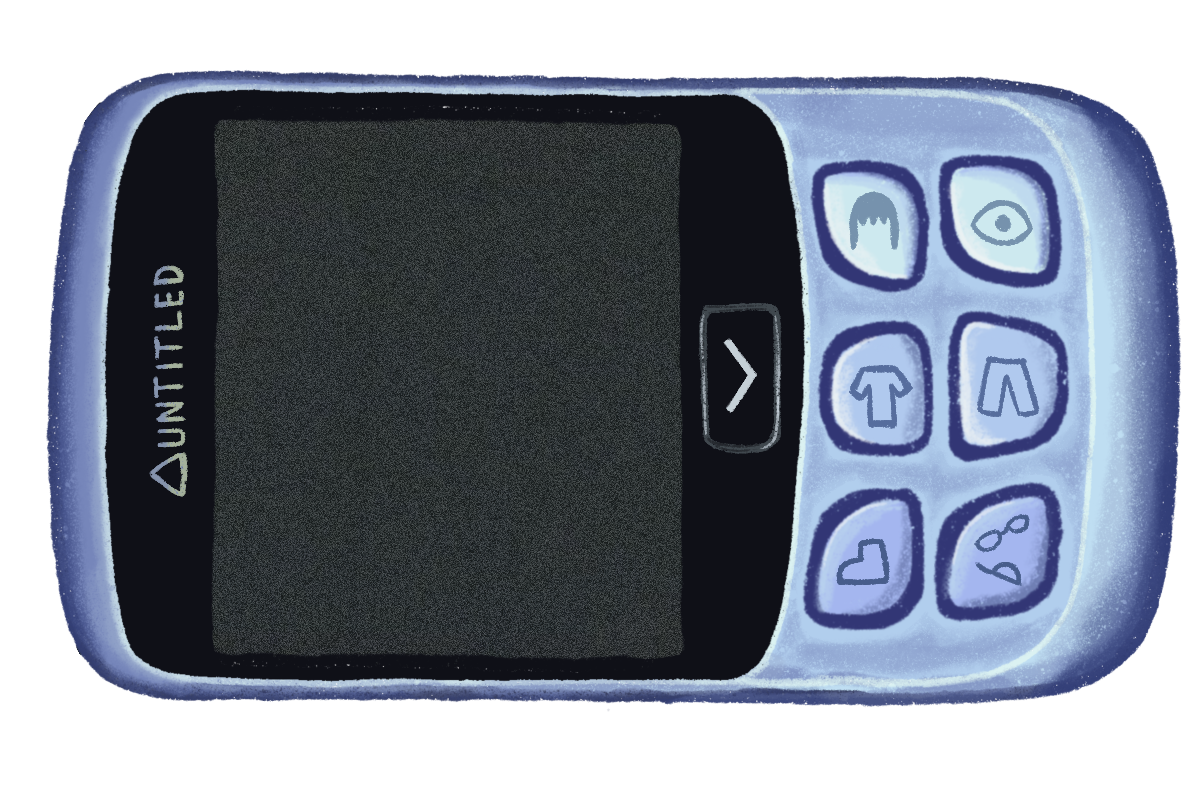
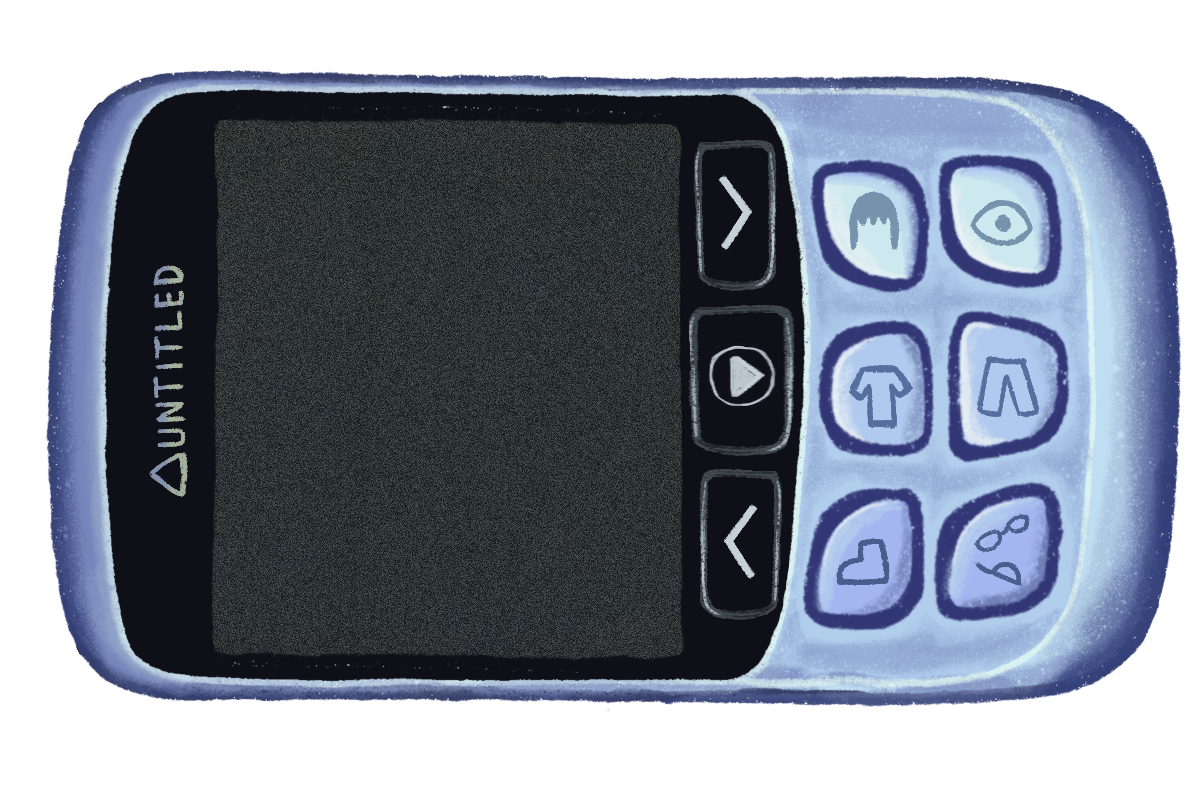
added more buttons

Changed region(s): [[0.555, 0.1519, 0.6783, 0.7899]]

diff --git a/src/components/Creation.tsx b/src/components/Creation.tsx
@@ -166,12 +166,17 @@ interface Props_Phone {
 }
 
 const Phone: React.FC<Props_Phone> = ({ onItemSelect, character }) => {
+  const user = useContext(User);
   const [scalingFactor, setScalingFactor] = useState<number>(1);
   const [topOffset, setTopOffset] = useState<number>(1);
   const [activeTab, setActiveTab] = useState<string>("hair");
   const [currentPage, setCurrentPage] = useState<number>(0);
 
   const itemsPerPage = 4;
+
+  const startGame = () => {
+    user.setCharacter(character);
+  };
 
   useEffect(() => {
     const handleResize = () => {
@@ -194,6 +199,9 @@ const Phone: React.FC<Props_Phone> = ({ onItemSelect, character }) => {
     switch (area.name) {
       case "screen":
         break;
+      case "play":
+        startGame();
+        break;
       case "back":
         const totalPages = Math.ceil(wardrobe_tabs.length / itemsPerPage);
         const prevPage = (currentPage - 1 + totalPages) % totalPages;
@@ -205,7 +213,6 @@ const Phone: React.FC<Props_Phone> = ({ onItemSelect, character }) => {
         if (prevDisplayedItems.length > 0) {
           setCurrentPage(prevPage);
         }
-        break;
         break;
       case "next":
         const nextPage =
@@ -357,7 +364,6 @@ const Character: React.FC<Props_Character> = ({ character }) => {
 };
 
 const Creation = () => {
-  const user = useContext(User);
   const [character, setCharacter] = useState<Character>({
     name: "Default",
     hair: wardrobe_tabs[0].items[0],
@@ -414,15 +420,8 @@ const Creation = () => {
     });
   };
 
-  const startGame = () => {
-    user.setCharacter(character);
-  };
-
   return (
     <div className="section-content">
-      <div className="button-container">
-        <button onClick={startGame}>start</button>
-      </div>
       <Character character={character} />
       <Wardrobe onItemSelect={handleItemSelect} character={character} />
     </div>

diff --git a/src/dummydata.ts b/src/dummydata.ts
@@ -186,36 +186,36 @@ export const MAP = {
       ],
     },
     {
-      name: "back",
-      shape: "poly",
-      fillColor: "d3a345",
+      name: "next",
+      shape: "rect",
+      fillColor: "#d3a345",
       strokeColor: "black",
-      coords: [187, 450, 144, 475, 184, 503],
+      coords: [774, 290, 696, 142],
       polygon: [
-        [187, 450],
-        [144, 475],
-        [184, 503],
+        [774, 290],
+        [696, 142],
       ],
     },
     {
-      name: "next",
-      shape: "poly",
+      name: "play",
+      shape: "rect",
       fillColor: "#d3a345",
       strokeColor: "black",
-      coords: [
-        700, 304, 772, 307, 779, 327, 779, 409, 775, 438, 761, 450, 711, 450,
-        701, 438, 701, 319,
-      ],
+      coords: [791, 456, 690, 304],
       polygon: [
-        [700, 304],
-        [772, 307],
-        [779, 327],
-        [779, 409],
-        [775, 438],
-        [761, 450],
-        [711, 450],
-        [701, 438],
-        [701, 319],
+        [791, 456],
+        [690, 304],
+      ],
+    },
+    {
+      name: "back",
+      shape: "rect",
+      fillColor: "#d3a345",
+      strokeColor: "black",
+      coords: [702, 470, 780, 620],
+      polygon: [
+        [702, 470],
+        [780, 620],
       ],
     },
     {

diff --git a/index.html b/index.html
@@ -33,5 +33,17 @@
   <body>
     <div id="root"></div>
     <script type="module" src="/src/main.tsx"></script>
+    <script>
+      function setFullHeight() {
+        const vh = window.innerHeight * 0.01;
+        document.documentElement.style.setProperty("--vh", `${vh}px`);
+      }
+
+      // Initial call to set the height
+      setFullHeight();
+
+      // Recalculate on resize
+      window.addEventListener("resize", setFullHeight);
+    </script>
   </body>
 </html>

diff --git a/src/styles.css b/src/styles.css
@@ -22,7 +22,7 @@ body {
 }
 
 #root {
-  height: 100%;
+  height: calc(var(--vh, 1vh) * 100);
   width: 100%;
   overflow: hidden;
   position: relative;
@@ -311,13 +311,13 @@ canvas {
 @media only screen and (max-width: 600px) {
   .section-content,
   .character img {
-    height: 65%;
+    height: 70%;
   }
 
   .Home_Buttons,
   .phone-container,
   .wardrobe-tabs {
-    margin-bottom: 20%;
+    margin-bottom: 2.5%;
   }
 
   .phone-container {
